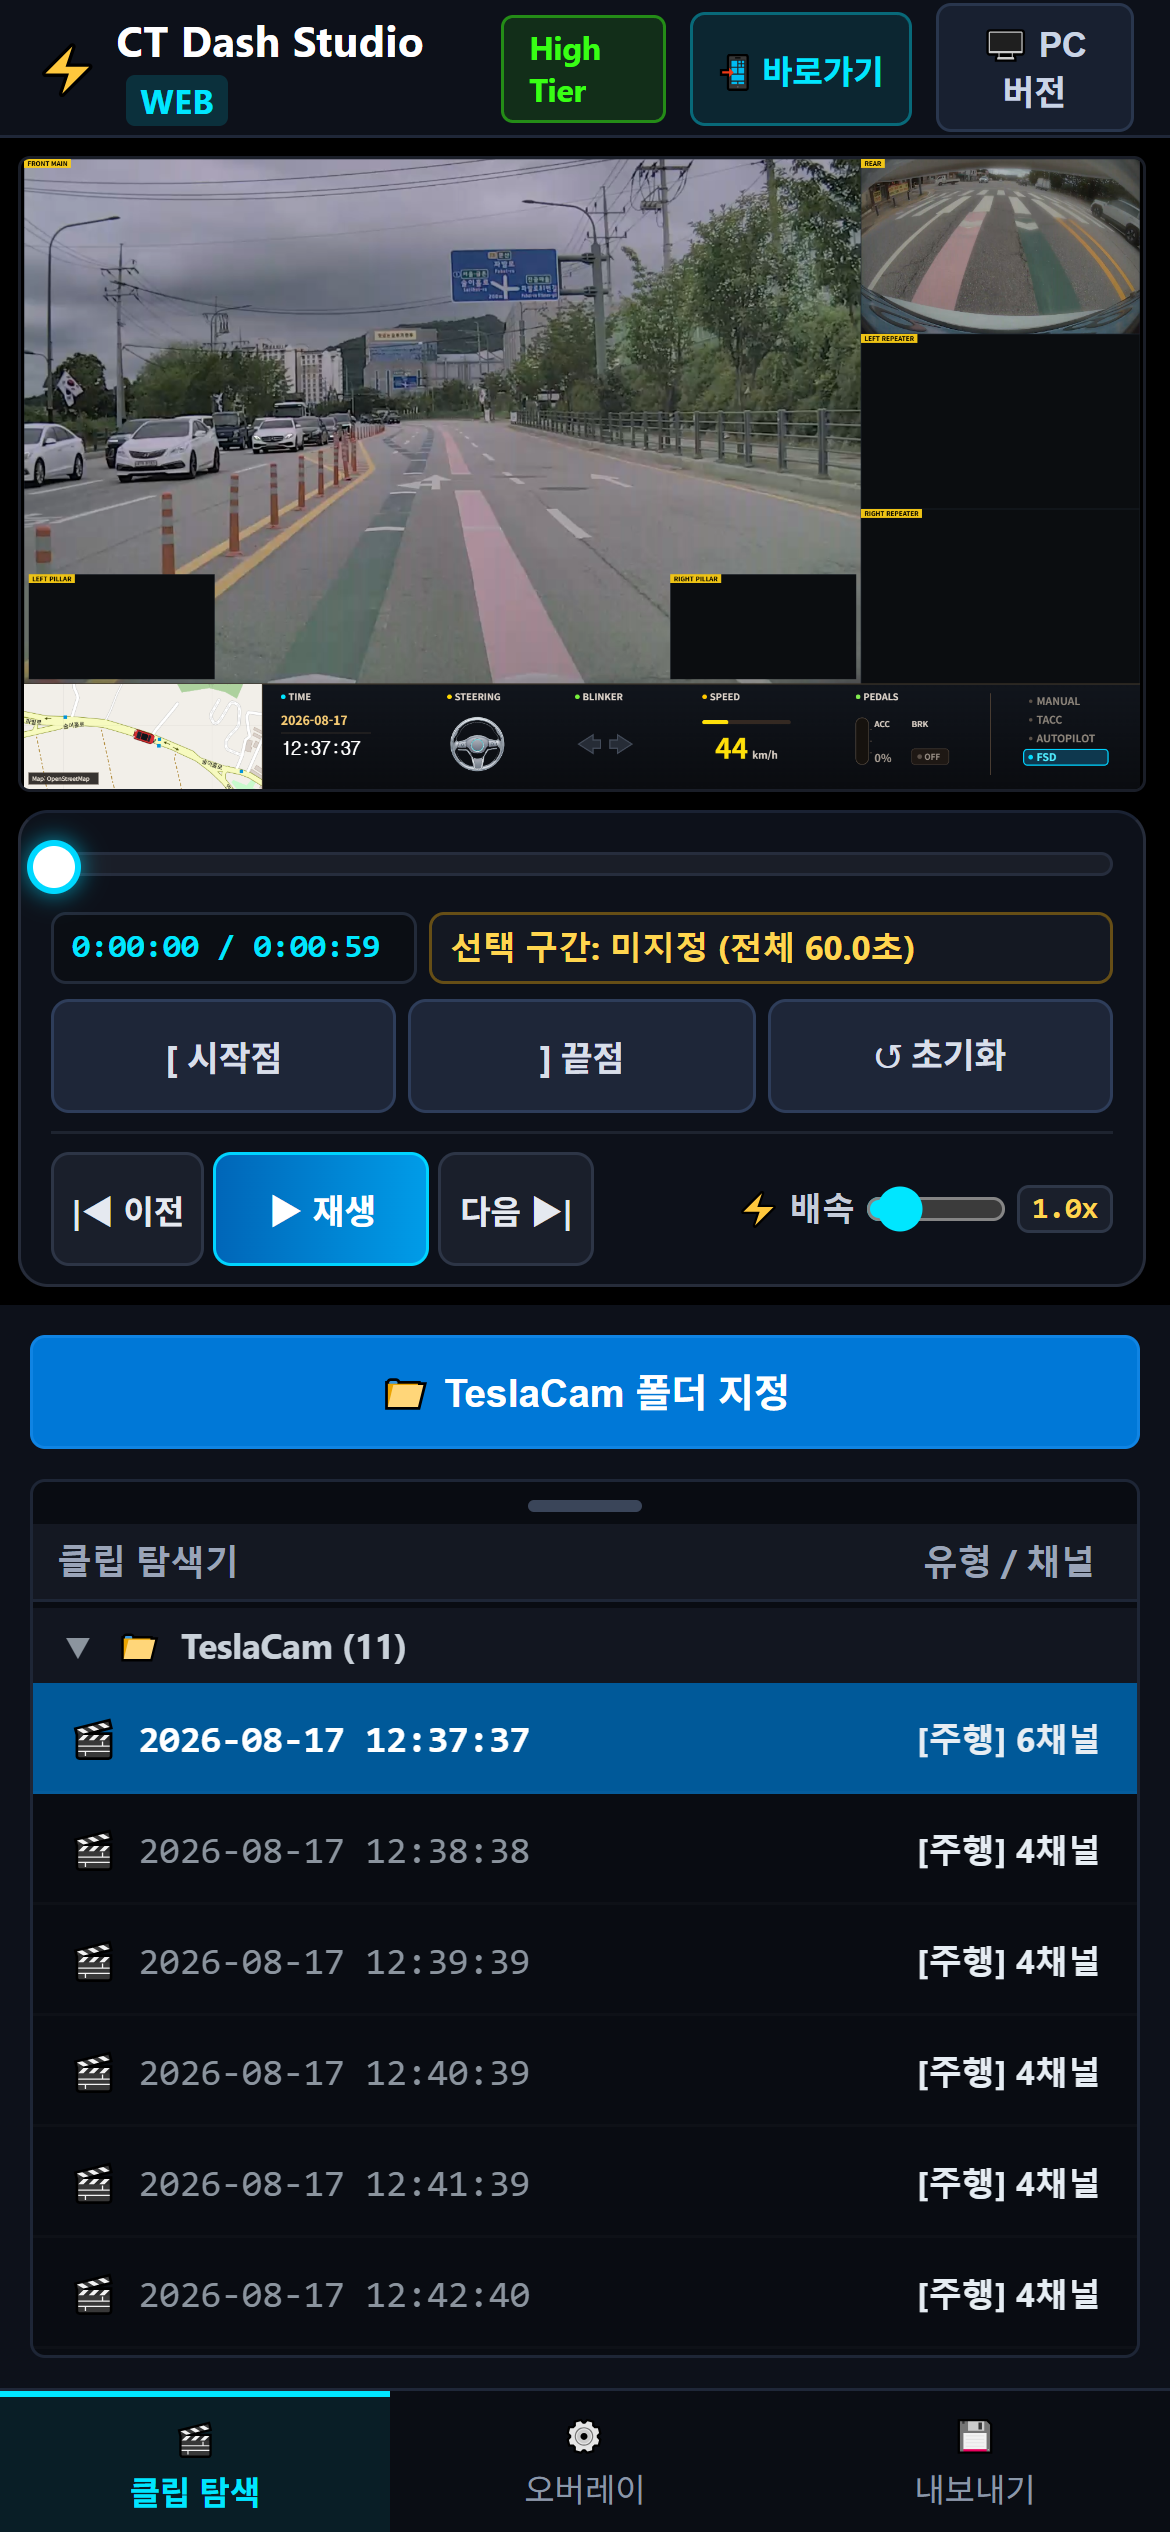
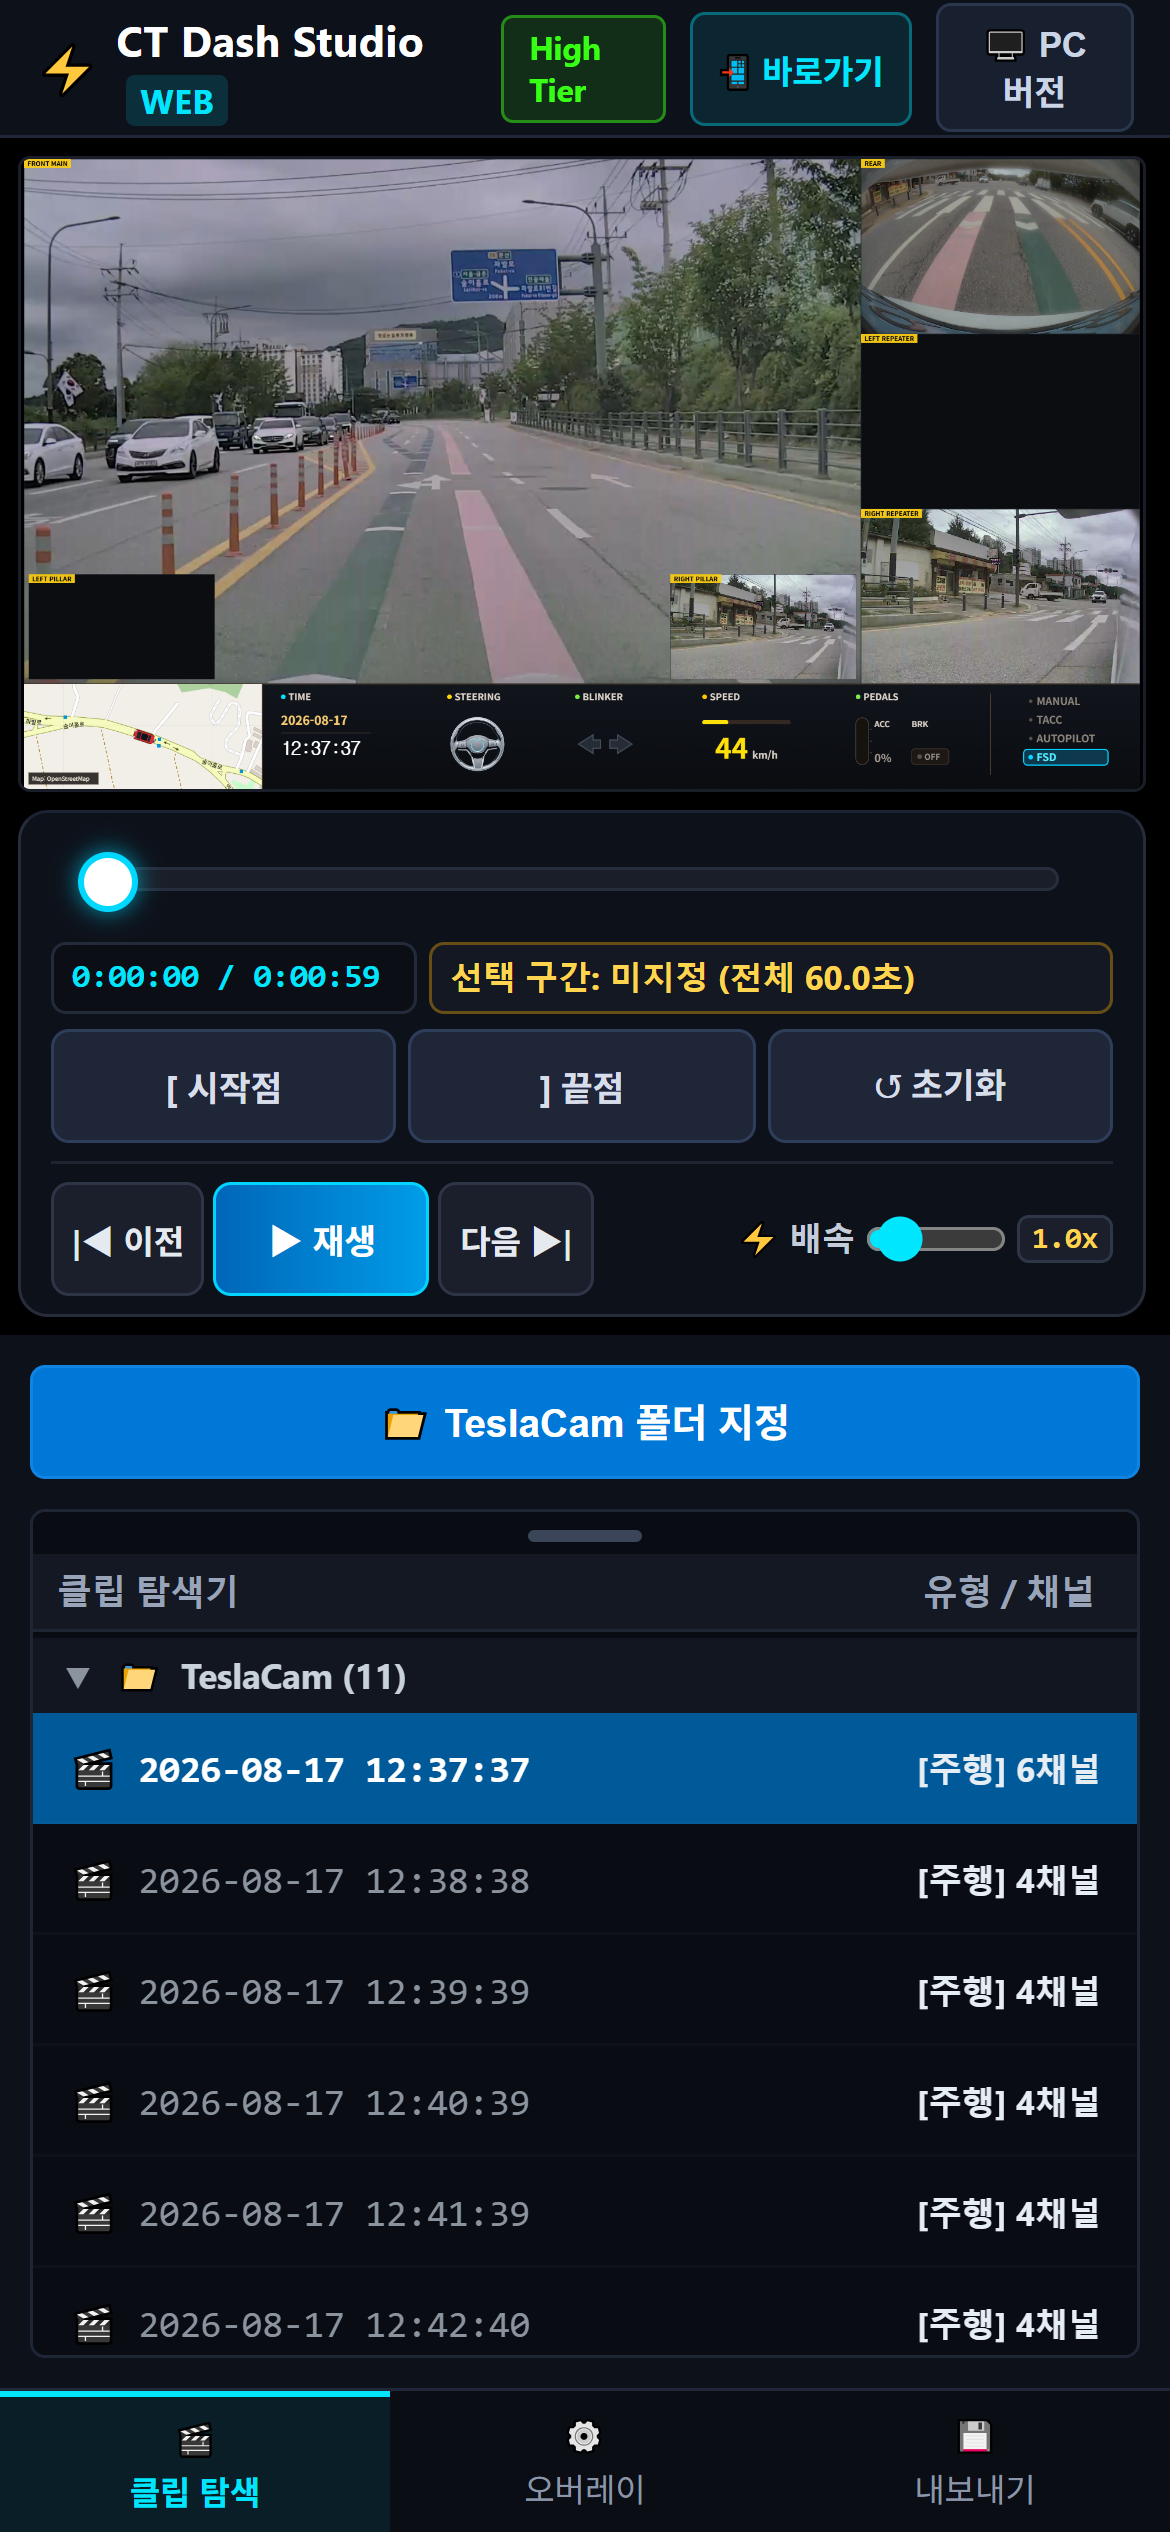
fix(mobile): add horizontal safe margins and touch-action to timeline scrubber to prevent accidental browser back/forward gestures

Changed region(s): [[0.0, 0.312, 1.0, 0.936], [0.5538, 0.1872, 0.9846, 0.2808]]

diff --git a/src/main.ts b/src/main.ts
@@ -721,6 +721,7 @@ class CTDashcamStudioApp {
     });
 
     // 6. Timeline Scrubber Click & Drag (Pointer Events for Touch & Mouse)
+    const timelineRow = document.querySelector('.timeline-row') as HTMLElement | null;
     const track = document.getElementById('timeline-track');
     let isScrubbing = false;
 
@@ -732,17 +733,21 @@ class CTDashcamStudioApp {
       this.seekTo(posRatio * this.durationSec);
     };
 
-    track?.addEventListener('pointerdown', (e: PointerEvent) => {
+    const startScrub = (e: PointerEvent) => {
+      e.preventDefault();
       isScrubbing = true;
       try {
-        track.setPointerCapture(e.pointerId);
+        track?.setPointerCapture(e.pointerId);
       } catch {}
       handleScrub(e.clientX);
-    });
+    };
 
-    track?.addEventListener('pointermove', (e: PointerEvent) => {
-      if (isScrubbing) handleScrub(e.clientX);
-    });
+    const moveScrub = (e: PointerEvent) => {
+      if (isScrubbing) {
+        e.preventDefault();
+        handleScrub(e.clientX);
+      }
+    };
 
     const stopScrub = (e: PointerEvent) => {
       if (isScrubbing) {
@@ -753,8 +758,16 @@ class CTDashcamStudioApp {
       }
     };
 
+    track?.addEventListener('pointerdown', startScrub);
+    track?.addEventListener('pointermove', moveScrub);
     track?.addEventListener('pointerup', stopScrub);
     track?.addEventListener('pointercancel', stopScrub);
+
+    timelineRow?.addEventListener('pointerdown', (e: PointerEvent) => {
+      if (e.target !== track && !track?.contains(e.target as Node)) {
+        startScrub(e);
+      }
+    });
 
     // 7. In / Out Point Buttons
     document.getElementById('btn-set-in')?.addEventListener('click', () => {

diff --git a/src/style.css b/src/style.css
@@ -770,6 +770,8 @@ body {
   display: flex;
   align-items: center;
   cursor: pointer;
+  box-sizing: border-box;
+  touch-action: none;
 }
 
 .timeline-track {
@@ -1882,6 +1884,16 @@ kbd {
       overflow-x: hidden !important;
     }
 
+    /* 모바일 타임라인 트랙 좌우 제스처 안전여백 (뒤로/앞으로 스와이프 오작동 방지) */
+    body:not(.view-desktop) .timeline-row,
+    body.view-mobile .timeline-row {
+      height: 32px;
+      padding-left: max(18px, env(safe-area-inset-left));
+      padding-right: max(18px, env(safe-area-inset-right));
+      box-sizing: border-box !important;
+      touch-action: none;
+    }
+
     body:not(.view-desktop) .timeline-track,
     body.view-mobile .timeline-track {
       height: 8px;
@@ -1889,9 +1901,9 @@ kbd {
 
     body:not(.view-desktop) .timeline-thumb,
     body.view-mobile .timeline-thumb {
-      width: 18px;
-      height: 18px;
-      top: -5px;
+      width: 20px;
+      height: 20px;
+      top: -6px;
     }
 
     body:not(.view-desktop) .control-row-info,
@@ -2450,6 +2462,12 @@ kbd {
       padding: 6px 14px 10px;
       z-index: 25;
       transition: opacity 0.25s ease, transform 0.25s ease;
+    }
+
+    body:not(.view-desktop) .timeline-row,
+    body.view-mobile .timeline-row {
+      padding-left: max(24px, env(safe-area-inset-left));
+      padding-right: max(24px, env(safe-area-inset-right));
     }
 
     /* 가로 모드에서 데스크톱 불필요 컨트롤 완전 제거 */
